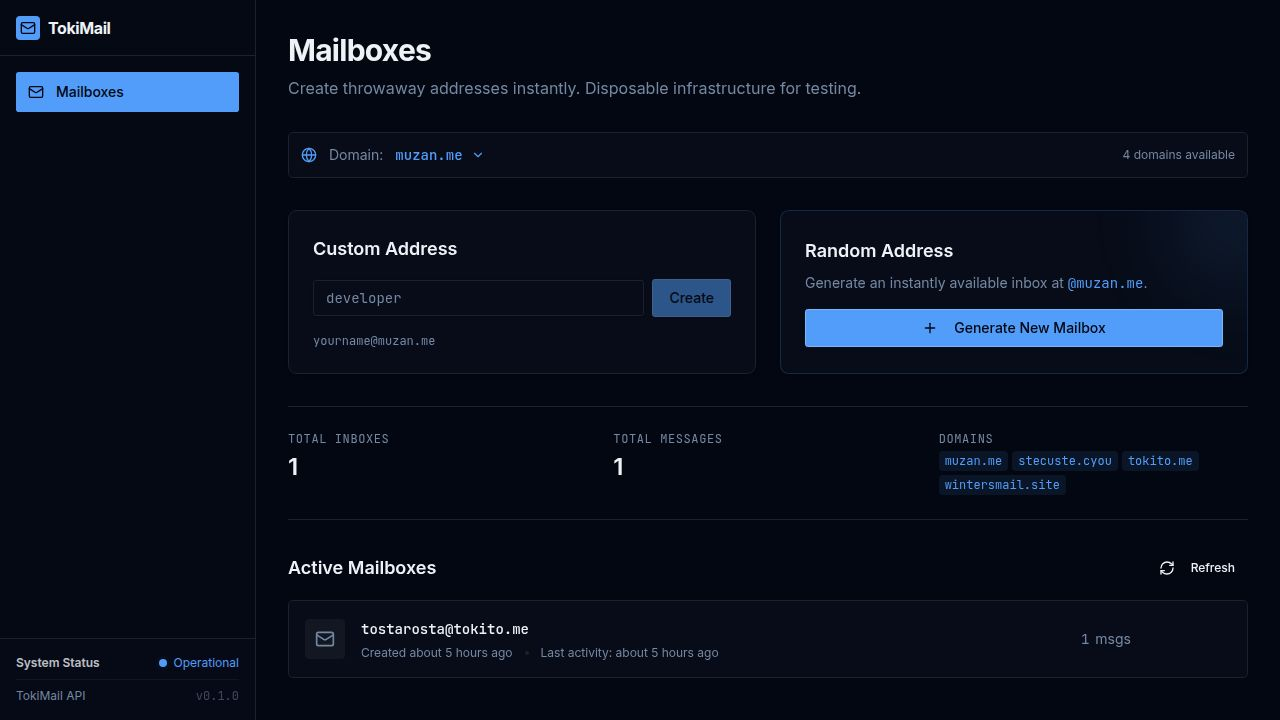
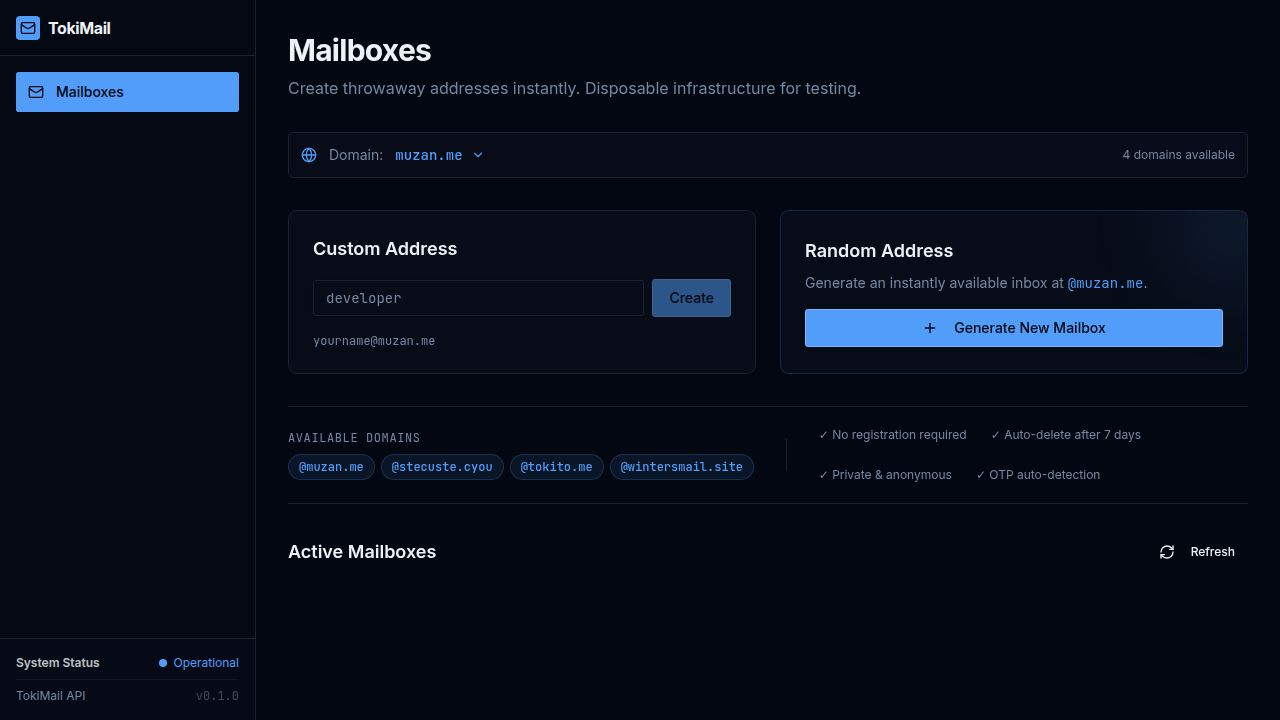
Update homepage to display domain list and feature highlights
Replaces total inbox and message counts with a list of available domains and key feature highlights on the home page.

Replit-Commit-Author: Agent
Replit-Commit-Session-Id: 9e6aeaf9-a5d6-4bfa-9c78-fde72940ff88
Replit-Commit-Checkpoint-Type: full_checkpoint
Replit-Commit-Event-Id: 4e31d515-1728-413b-9909-767eb1c8a3ab
Replit-Commit-Screenshot-Url: https://storage.googleapis.com/screenshot-production-us-central1/a001fb71-c4d7-431b-be8b-4598d63f1427/9e6aeaf9-a5d6-4bfa-9c78-fde72940ff88/FOZvK6b
Replit-Helium-Checkpoint-Created: true

diff --git a/artifacts/tempmail/src/pages/home.tsx b/artifacts/tempmail/src/pages/home.tsx
@@ -180,27 +180,28 @@ export default function Home() {
         </div>
       </div>
 
-      {stats && (
-        <div className="grid grid-cols-3 gap-4 border-y border-border py-6">
-          <div>
-            <div className="text-xs text-muted-foreground uppercase tracking-wider mb-1 font-mono">Total Inboxes</div>
-            <div className="text-2xl font-semibold">{stats.totalMailboxes}</div>
-          </div>
-          <div>
-            <div className="text-xs text-muted-foreground uppercase tracking-wider mb-1 font-mono">Total Messages</div>
-            <div className="text-2xl font-semibold">{stats.totalMessages}</div>
-          </div>
-          <div>
-            <div className="text-xs text-muted-foreground uppercase tracking-wider mb-1 font-mono">Domains</div>
-            <div className="text-sm font-mono text-primary mt-1 flex flex-wrap gap-1">
-              {domains.length > 0
-                ? domains.map(d => <span key={d.id} className="bg-primary/10 px-1.5 py-0.5 rounded text-xs">{d.name}</span>)
-                : <span>{stats.domain}</span>
-              }
-            </div>
+      <div className="border-y border-border py-5 flex flex-col sm:flex-row sm:items-center gap-4 sm:gap-8">
+        <div className="shrink-0">
+          <div className="text-xs text-muted-foreground uppercase tracking-wider mb-2 font-mono">Available Domains</div>
+          <div className="flex flex-wrap gap-1.5">
+            {domains.length > 0
+              ? domains.map(d => (
+                  <span key={d.id} className="bg-primary/10 border border-primary/20 text-primary px-2.5 py-1 rounded-full font-mono text-xs font-medium">
+                    @{d.name}
+                  </span>
+                ))
+              : <span className="font-mono text-sm text-primary">@{stats?.domain}</span>
+            }
           </div>
         </div>
-      )}
+        <div className="hidden sm:block w-px h-8 bg-border" />
+        <div className="flex flex-wrap gap-6 text-xs text-muted-foreground">
+          <span>✓ No registration required</span>
+          <span>✓ Auto-delete after 7 days</span>
+          <span>✓ Private &amp; anonymous</span>
+          <span>✓ OTP auto-detection</span>
+        </div>
+      </div>
 
       <div className="space-y-4">
         <div className="flex items-center justify-between">